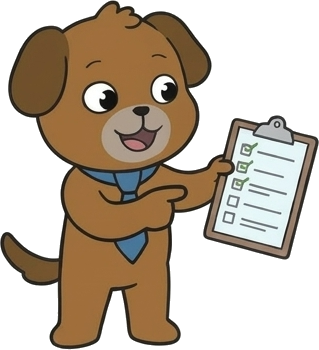
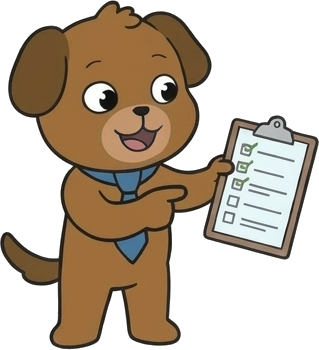
새 강아지 자세 6종 주둥이 색을 기존 강아지와 맞춤

Changed region(s): [[0.3103, 0.2857, 0.5361, 0.4857]]

diff --git a/_tools/toon-cut.html b/_tools/toon-cut.html
@@ -46,6 +46,20 @@ const load = n => sheets[n] || (sheets[n] = new Promise(r => { const i = new Ima
     }
     const big = parts.reduce((a, b) => (b.mem.length > a.mem.length ? b : a));
     for (const t of parts) if (t !== big && (t.edge || t.mem.length < 40)) for (const k of t.mem) bg[k] = 1;
+    // 새 시트(이모션8·9) 강아지는 주둥이가 회베이지라, 옛 강아지 주둥이 색(196,151,110)으로 맞춘다(사용자 요청 2026-11-07).
+    // 위쪽 55% 안에서 회베이지(174,158,140) 근처 색이 이어진 가장 큰 덩어리만 바꾸고, 원래 명암 차이는 살린다.
+    if (name.startsWith("dog-")) {
+      const REF = [174, 158, 140], TO = [196, 151, 110], near = k => !bg[k] && Math.hypot(p[k*4]-REF[0], p[k*4+1]-REF[1], p[k*4+2]-REF[2]) < 34;
+      const seen = new Uint8Array(N); let best = [];
+      for (let s0 = 0; s0 < w * Math.floor(h * 0.55); s0++) {
+        if (seen[s0] || !near(s0)) continue; const q = [s0], mem = []; seen[s0] = 1;
+        while (q.length) { const k = q.pop(); mem.push(k); const i = k % w;
+          for (const n of [i > 0 ? k - 1 : -1, i < w - 1 ? k + 1 : -1, k - w, k + w])
+            if (n >= 0 && n < w * Math.floor(h * 0.55) && !seen[n] && near(n)) { seen[n] = 1; q.push(n); } }
+        if (mem.length > best.length) best = mem;
+      }
+      for (const k of best) for (let c = 0; c < 3; c++) p[k*4+c] = Math.max(0, Math.min(255, TO[c] + p[k*4+c] - REF[c]));
+    }
     let x0 = w, y0 = h, x1 = 0, y1 = 0;
     for (let k = 0; k < N; k++) { if (bg[k]) { p[k * 4 + 3] = 0; continue; } const i = k % w, j = (k - i) / w;
       x0 = Math.min(x0, i); x1 = Math.max(x1, i); y0 = Math.min(y0, j); y1 = Math.max(y1, j); }
